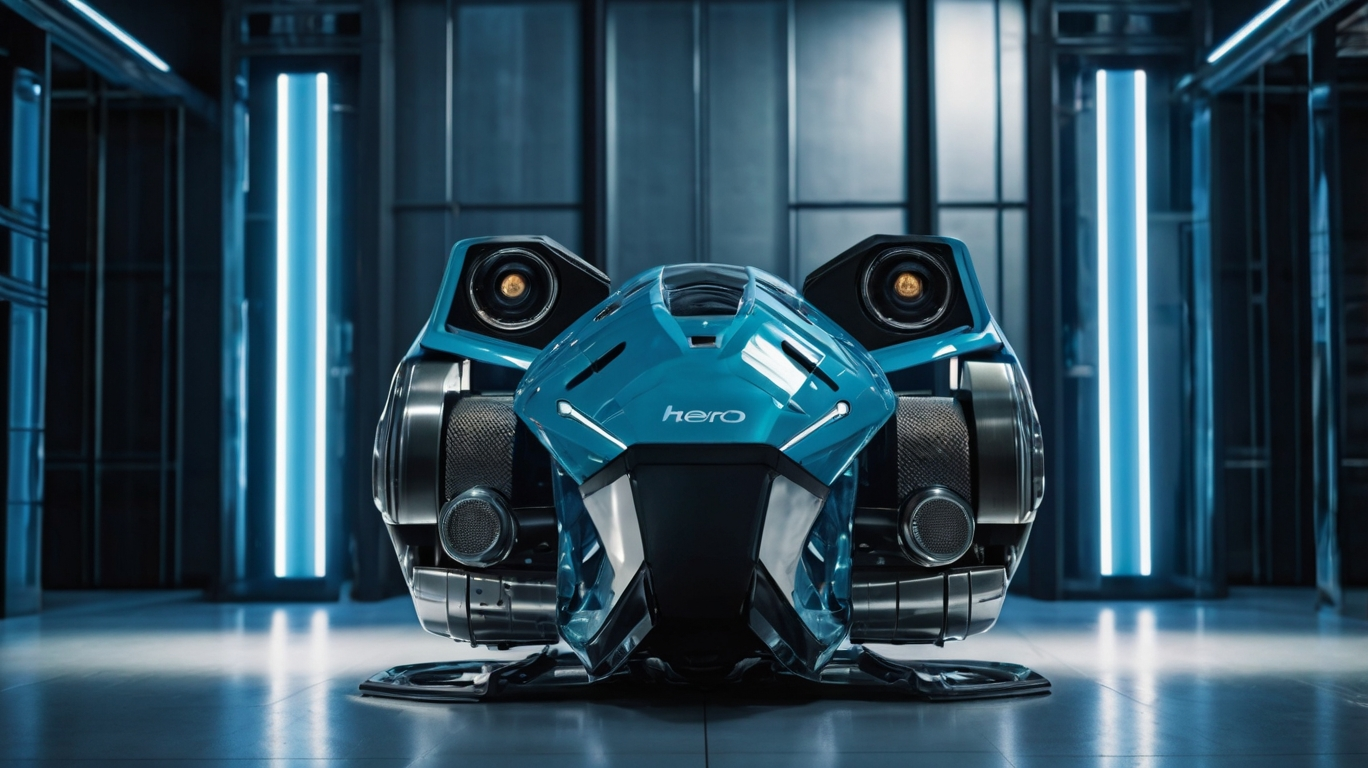
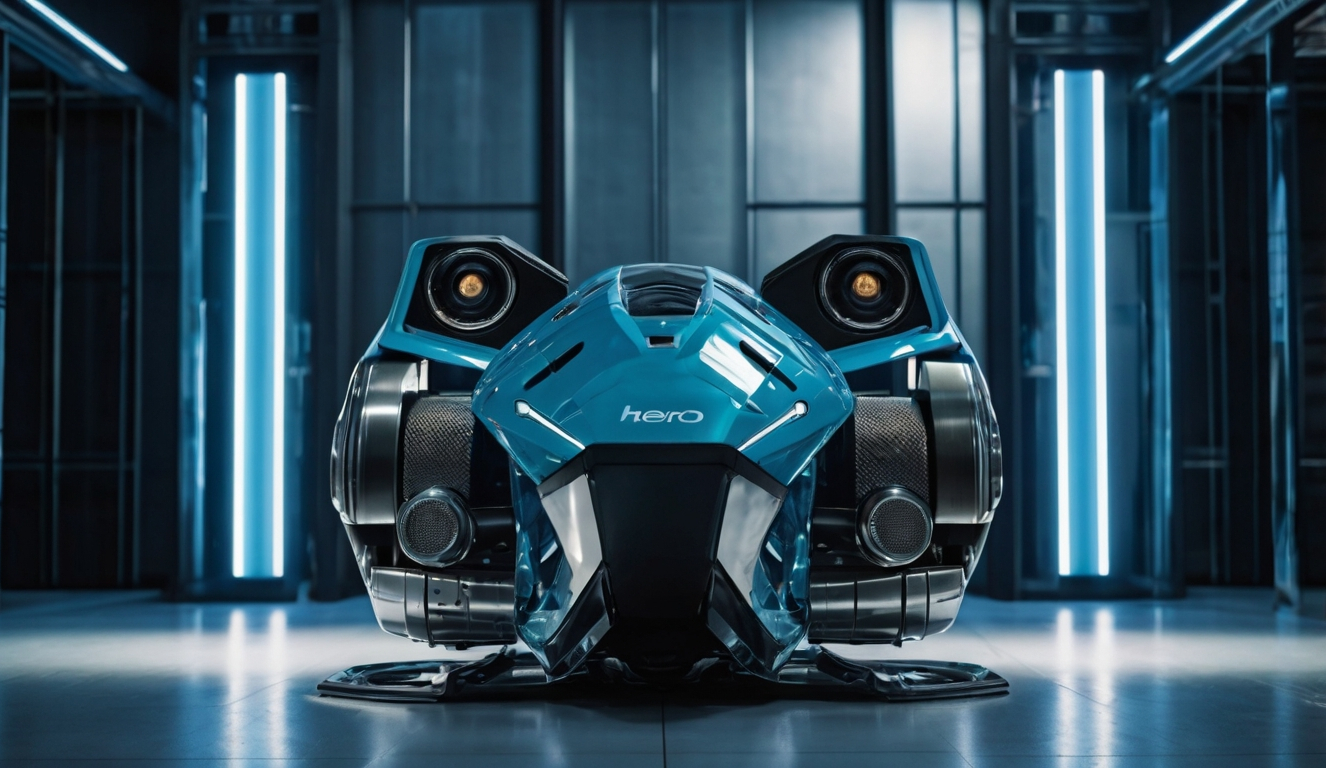
feat: flex and grid alignment

diff --git a/src/components/common/gridItemImage/gridItemImageStyles.scss b/src/components/common/gridItemImage/gridItemImageStyles.scss
@@ -2,7 +2,12 @@
 @import "../../../assets/fonts/fonts.css";
 
 #grid-item-image {
-  background-color: white;
-  padding: 2rem;
-  border-radius: 20px;
+  overflow: hidden;
+  > img {
+    width: 100%;
+    height: 100%;
+    object-fit: cover; // Zoom in and crop the image
+    object-position: center; // Center the image within the container
+    border-radius: 20px;
+  }
 }

diff --git a/src/components/common/index.ts b/src/components/common/index.ts
@@ -2,3 +2,4 @@ export { default as ContentGrid } from "./contentGrid";
 export { default as CopyBlock } from "./copyBlock";
 export { default as GridItemCopy } from "./gridItemCopy";
 export { default as GridItemImage } from "./gridItemImage";
+export { default as Backdrop } from "./backdrop";

diff --git a/src/components/home/topSection/TopSectionStyles.scss b/src/components/home/topSection/TopSectionStyles.scss
@@ -11,8 +11,8 @@
 #top-section-content {
   display: flex;
   flex-direction: row;
-  align-items: center;
   justify-content: center;
+  height: 500px;
   gap: 20px;
   width: 75%;
   > * {

diff --git a/src/components/common/copyBlock/CopyBlockStyles.scss b/src/components/common/copyBlock/CopyBlockStyles.scss
@@ -5,4 +5,6 @@
   background-color: white;
   padding: 2rem;
   border-radius: 20px;
+  align-self: stretch;
+  flex-grow: 1;
 }

diff --git a/src/components/common/gridItemCopy/GridItemCopyStyles.scss b/src/components/common/gridItemCopy/GridItemCopyStyles.scss
@@ -3,6 +3,6 @@
 
 #grid-item-copy {
   background-color: white;
-  padding: 2rem;
+  padding: 1rem;
   border-radius: 20px;
 }

diff --git a/src/components/common/contentGrid/ContentGridStyles.scss b/src/components/common/contentGrid/ContentGridStyles.scss
@@ -14,5 +14,5 @@
 }
 
 #content-grid > * {
-  aspect-ratio: 1 / 1; // Ensure cells are square
+  aspect-ratio: 1 / 1;
 }

diff --git a/src/components/common/backdrop/index.ts b/src/components/common/backdrop/index.ts
@@ -1,0 +1,1 @@
+export { default } from "./Backdrop.astro";
